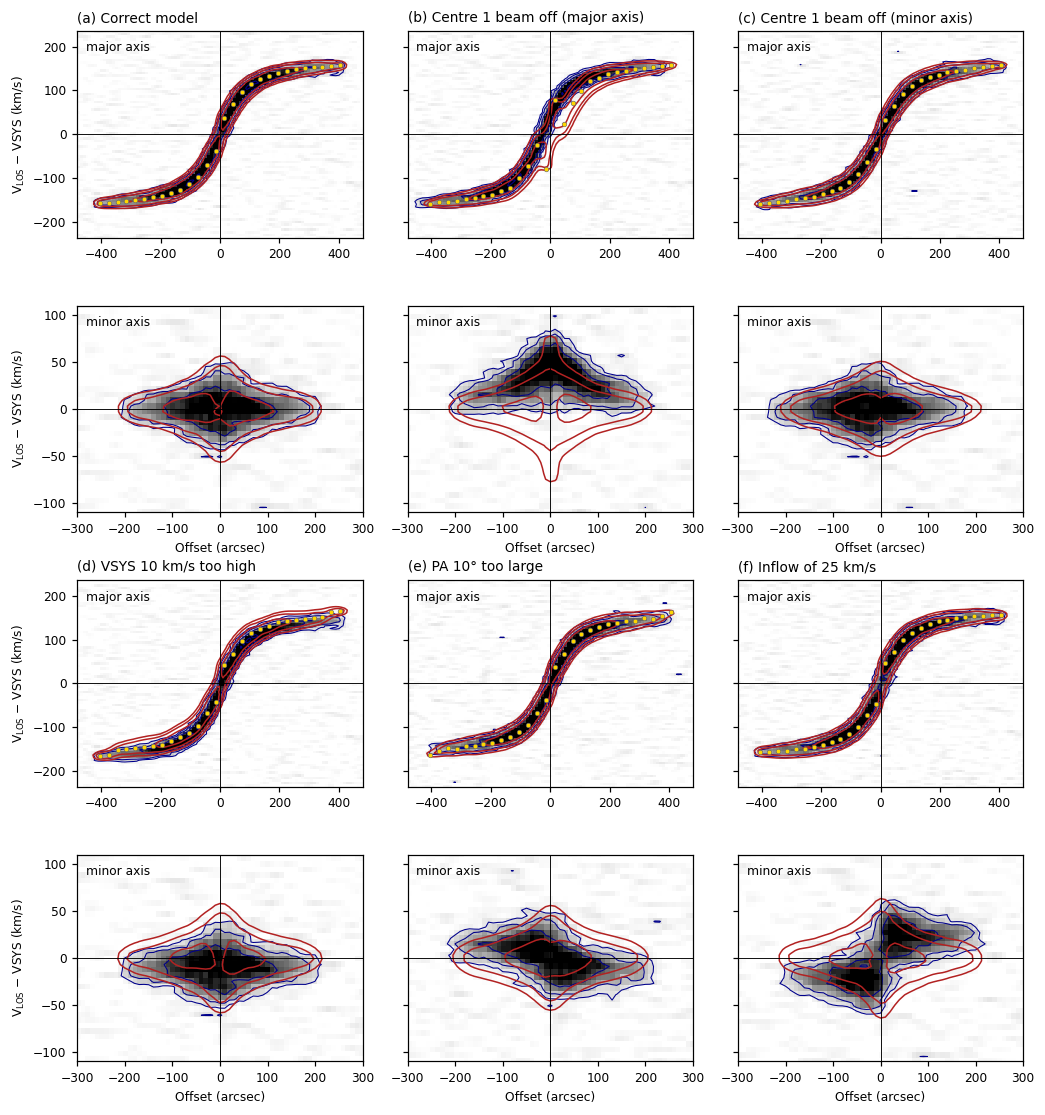
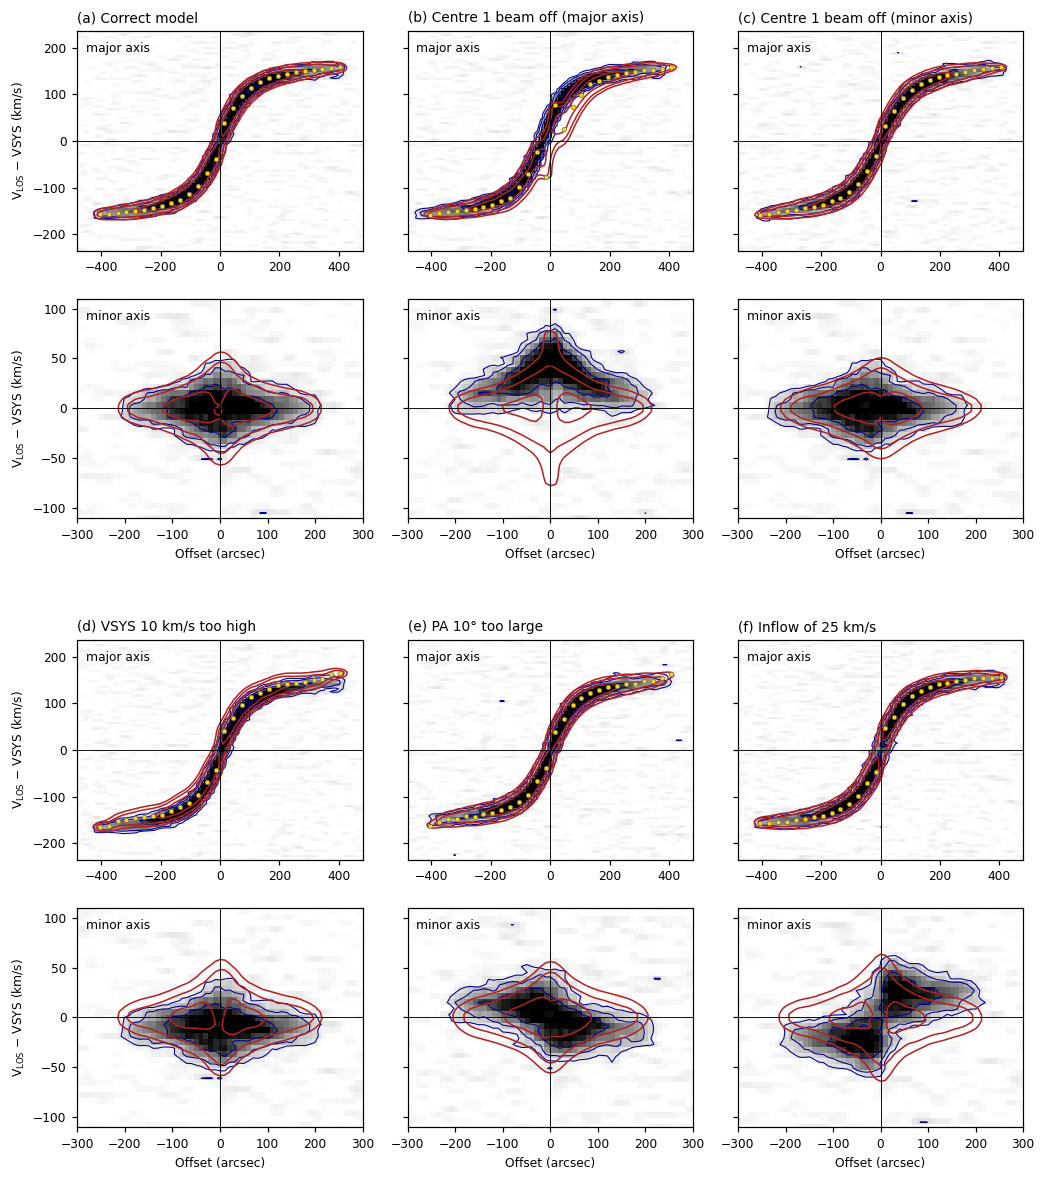
Guidelines PV figure: more space between the two groups of cases

diff --git a/docs/scripts/make_figures.py b/docs/scripts/make_figures.py
@@ -728,7 +728,10 @@ def fig_residuals_pv():
              ("(e) PA 10° too large", disk, dict(pa=pa + 10)),
              ("(f) Inflow of 25 km/s", inflow, {})]
     # each case in a column, its major axis above its minor axis: (a, b, c) in rows 1-2, (d, e, f) in rows 3-4
-    fig, axs = plt.subplots(4, 3, figsize=(9.6, 10.2))
+    fig, grid = plt.subplots(5, 3, figsize=(9.6, 10.8), gridspec_kw=dict(height_ratios=(1, 1, 0.12, 1, 1)))
+    for ax in grid[2]:
+        ax.set_visible(False)                              # (more space between the two groups of cases)
+    axs = np.delete(grid, 2, axis=0)
     for k, (title, cube, kw) in enumerate(cases):
         g = dict(xpos=x0, ypos=y0, vsys=0., inc=inc, pa=pa)
         g.update(kw)
